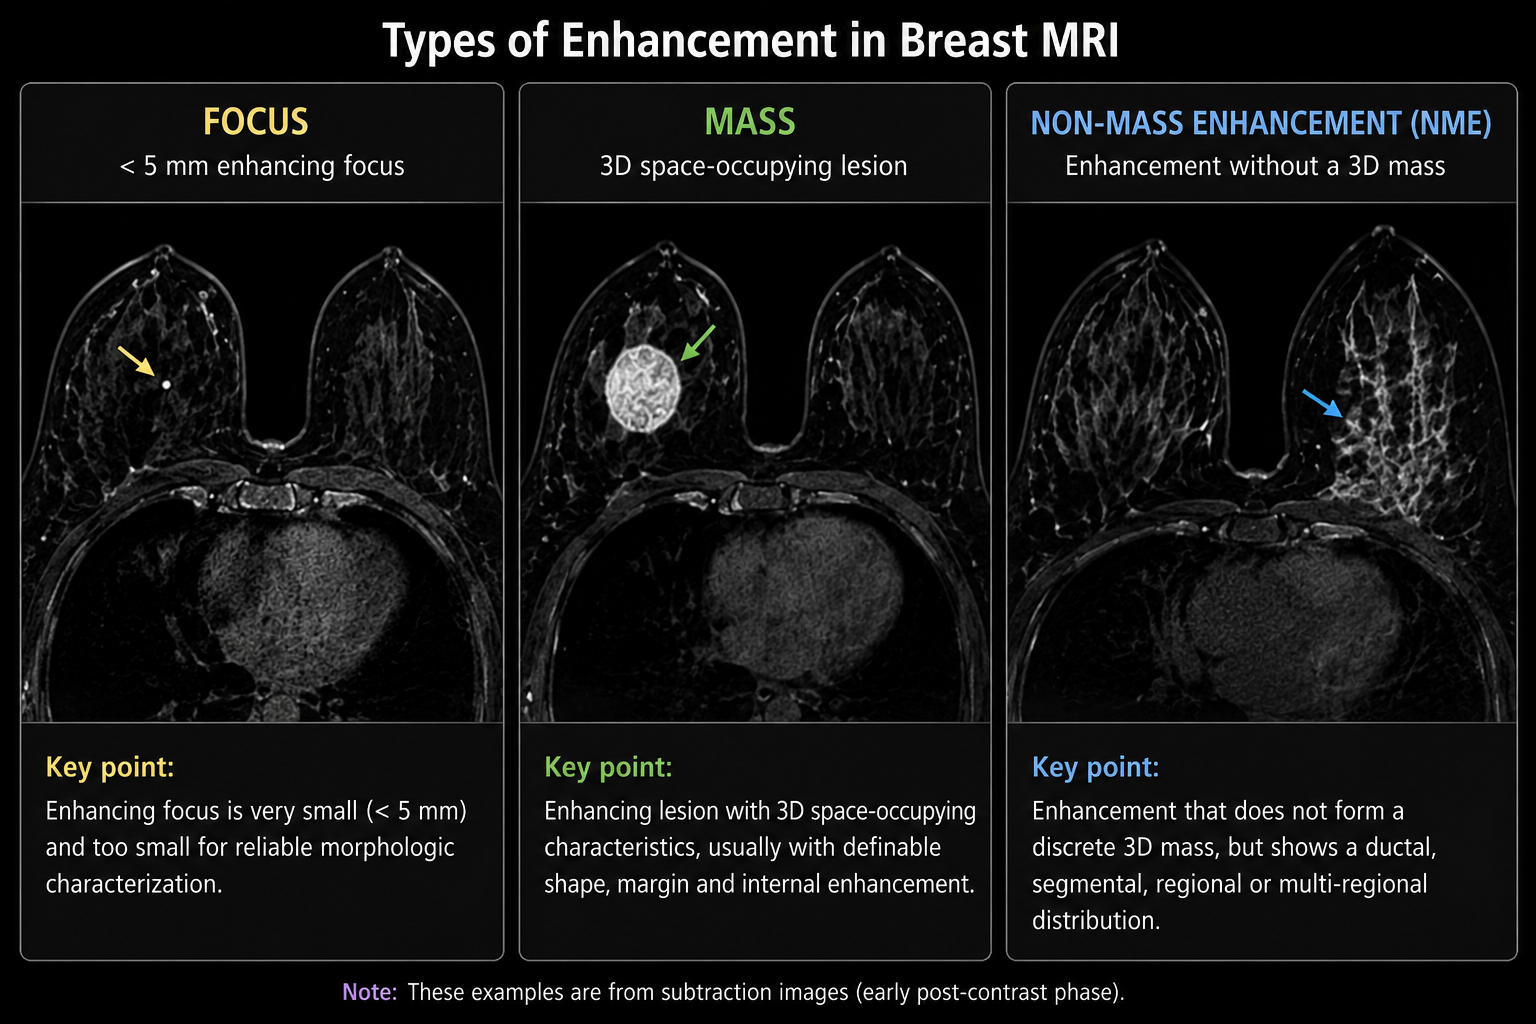
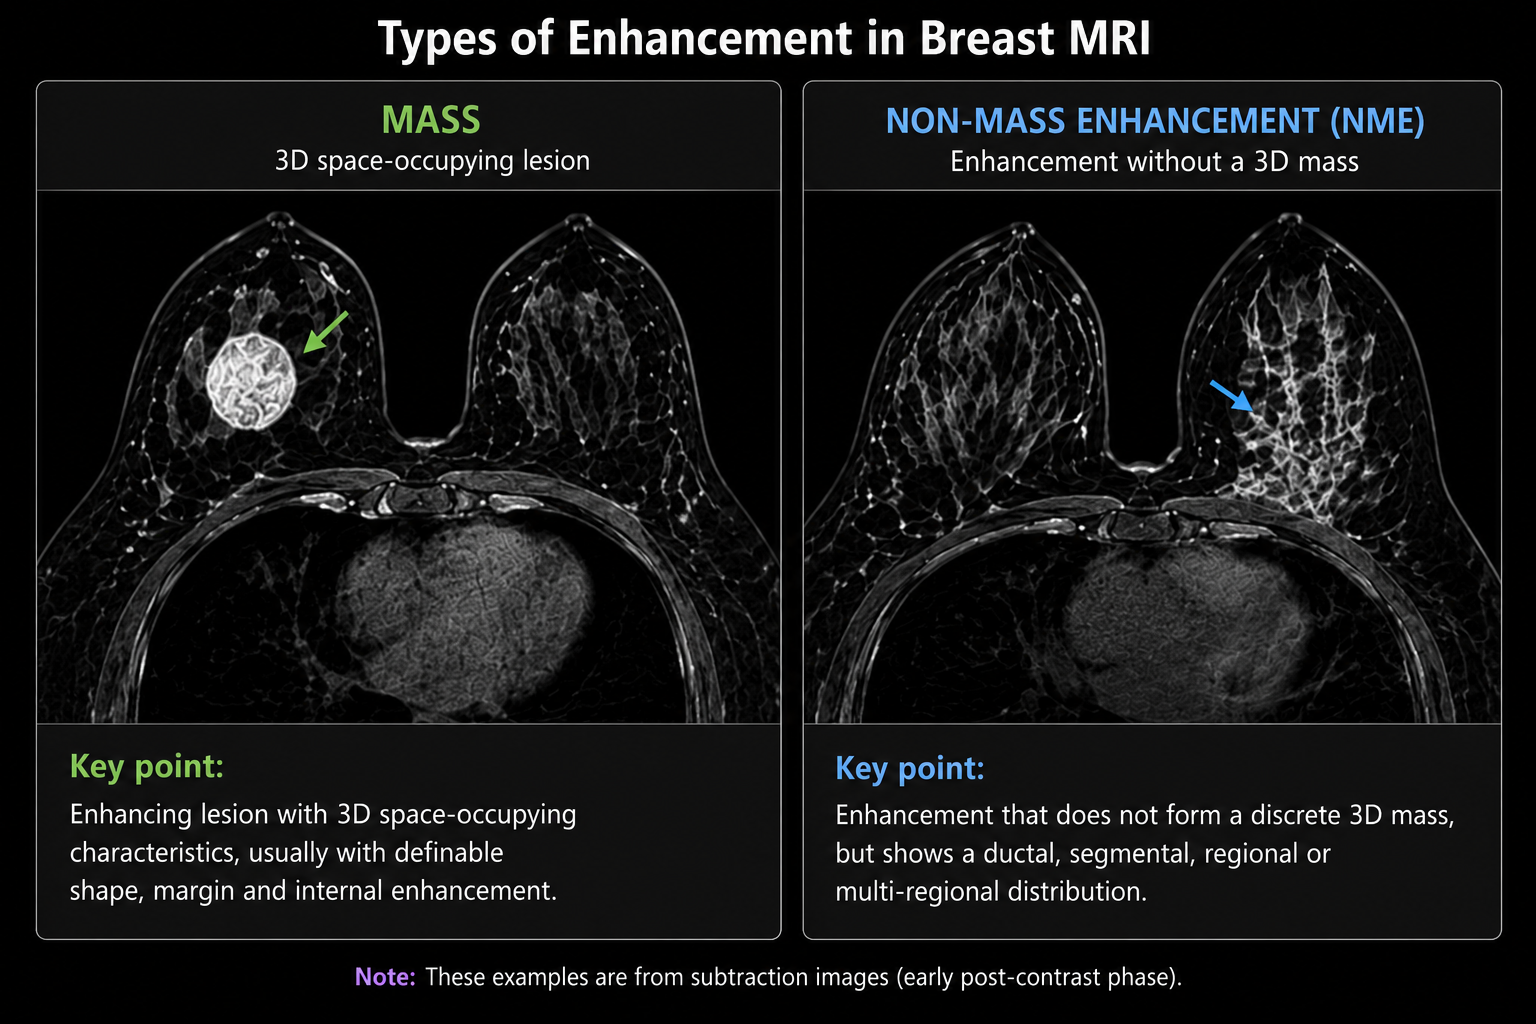
Make lesson sections exclusive accordions and update MRI enhancement image

Changed region(s): [[0.0, 0.0, 1.0, 1.0], [0.9688, 0.7812, 1.0, 0.9062], [0.9688, 0.1875, 1.0, 0.2812]]

diff --git a/app/mamma/bildgebung/mammographie/verkalkungen/page.js b/app/mamma/bildgebung/mammographie/verkalkungen/page.js
@@ -64,7 +64,7 @@ const CALC_FACTORS=[
   {key:'associated',group:'Begleitbefunde',title:'Masse oder Architekturstörung?',text:'Assoziierte Gewebeveränderungen können den Verdacht verstärken. Auch Asymmetrie sowie Haut- und Mamillenveränderungen mitbeurteilen.'},
   {key:'history',group:'Risikokontext',title:'Alter und Anamnese einbeziehen',text:'Höheres Alter und eine persönliche Brustkrebsanamnese können das Ausgangsrisiko erhöhen. Entscheidend bleibt der Gesamtbefund.'},
 ]
-function Section({id,title,children}){const mobile=useMobileLearningLayout();const[open,setOpen]=useState(true);useEffect(()=>setOpen(!mobile),[mobile,id]);return <section id={id} className={`${base.section} ${basics.section} ${styles.section}`}><button type="button" className={`${base.sectionHeader} ${basics.sectionHeader}`} onClick={()=>setOpen(v=>!v)} aria-expanded={open}><span className={basics.sectionHeading}><h2>{title}</h2></span><span className={basics.sectionToggle}>{open?'−':'+'}</span></button>{open&&<div className={`${base.sectionBody} ${basics.sectionBody} ${styles.sectionBody}`}>{children}</div>}</section>}
+function Section({id,title,children}){useMobileLearningLayout();const[open,setOpen]=useState(true);useEffect(()=>setOpen(false),[id]);return <section id={id} className={`${base.section} ${basics.section} ${styles.section}`}><button type="button" className={`${base.sectionHeader} ${basics.sectionHeader}`} onClick={()=>setOpen(v=>!v)} aria-expanded={open}><span className={basics.sectionHeading}><h2>{title}</h2></span><span className={basics.sectionToggle}>{open?'−':'+'}</span></button>{open&&<div className={`${base.sectionBody} ${basics.sectionBody} ${styles.sectionBody}`}>{children}</div>}</section>}
 function ReadButton({lang,isRead,toggle,authError}){const t=READ[lang]||READ.de;return <div className={base.readControl}><button type="button" className={`${base.readButton} ${basics.readButton} ${isRead?`${base.readButtonActive} ${basics.readButtonActive}`:''}`} onClick={toggle}><span className={`${base.readCheck} ${basics.readCheck}`}>{isRead?'✓':''}</span><span>{isRead?t[1]:t[0]}</span></button>{authError&&<div className={base.readError}><span>{t[2]}</span><Link href="/sign-in">{t[3]}</Link></div>}</div>}
 function MorphologyImage({type,lang='de'}){const image=MORPHOLOGY_IMAGES[type];return <a className={caseStyles.morphologyIllustration} href={image.src} target="_blank" rel="noreferrer" aria-label={pick(image.alt,lang)}><Image src={image.src} alt={pick(image.alt,lang)} width={image.width} height={image.height}/></a>}
 function DistributionImage({type,lang='de'}){const image=DISTRIBUTION_IMAGES[type];return <a className={caseStyles.distributionIllustration} href={image.src} target="_blank" rel="noreferrer" aria-label={pick(image.alt,lang)}><Image src={image.src} alt={pick(image.alt,lang)} width={image.width} height={image.height}/></a>}

diff --git a/hooks/useMobileLearningLayout.js b/hooks/useMobileLearningLayout.js
@@ -2,10 +2,61 @@
 
 import { useEffect, useState } from 'react'
 
+function installLearningAccordion() {
+  if (window.__radYarLearningAccordionInstalled) return
+  window.__radYarLearningAccordionInstalled = true
+
+  let preferredId = null
+  let initialized = false
+  let scheduled = false
+  const sectionHeaders = () => [...document.querySelectorAll('main section[id] > button[aria-expanded]')]
+  const reconcile = () => {
+    scheduled = false
+    const headers = sectionHeaders()
+    if (!headers.length) return
+    if (!initialized) {
+      initialized = true
+      preferredId = headers[0].parentElement?.id || null
+    }
+    const expanded = headers.filter(button => button.getAttribute('aria-expanded') === 'true')
+    let target = preferredId ? headers.find(button => button.parentElement?.id === preferredId) : expanded[0]
+    if (preferredId && target?.getAttribute('aria-expanded') !== 'true') target.click()
+    if (!target && expanded.length) target = expanded[0]
+    expanded.forEach(button => { if (button !== target) button.click() })
+  }
+  const schedule = () => {
+    if (scheduled) return
+    scheduled = true
+    window.setTimeout(reconcile, 0)
+  }
+
+  document.addEventListener('click', event => {
+    const header = event.target.closest?.('main section[id] > button[aria-expanded]')
+    if (header) {
+      if (event.isTrusted) preferredId = header.getAttribute('aria-expanded') === 'true' ? null : header.parentElement?.id
+      schedule()
+      return
+    }
+    const sidebarButton = event.target.closest?.('main aside button')
+    if (!sidebarButton) return
+    const sidebarButtons = [...sidebarButton.closest('aside').querySelectorAll('button')]
+    const sections = [...document.querySelectorAll('main section[id]')]
+    const target = sections[sidebarButtons.indexOf(sidebarButton)]
+    if (target) {
+      preferredId = target.id
+      schedule()
+    }
+  }, true)
+
+  new MutationObserver(schedule).observe(document.body, { childList: true, subtree: true, attributes: true, attributeFilter: ['aria-expanded'] })
+  schedule()
+}
+
 export function useMobileLearningLayout(query = '(max-width: 760px)') {
   const [isMobile, setIsMobile] = useState(false)
 
   useEffect(() => {
+    installLearningAccordion()
     const mediaQuery = window.matchMedia(query)
     const update = () => setIsMobile(mediaQuery.matches)
     update()

diff --git a/app/msk/trauma/frakturbeschreibung/page.js b/app/msk/trauma/frakturbeschreibung/page.js
@@ -16,7 +16,7 @@ const UI={
  en:{zoom:'Enlarge image',close:'Close image preview',mark:'Mark as read',read:'Marked as read',signIn:'Sign in',auth:'Please sign in to save your learning progress.',mcq:'MCQ',flash:'Flashcards'},
  fa:{zoom:'بزرگنمایی تصویر',close:'بستن تصویر',mark:'علامتگذاری بهعنوان خواندهشده',read:'بهعنوان خواندهشده علامت خورد',signIn:'ورود',auth:'برای ذخیره پیشرفت لطفاً وارد شوید.',mcq:'MCQ',flash:'فلشکارت'}
 }
-function Section({id,title,lead,children}){const mobile=useMobileLearningLayout();const[open,setOpen]=useState(true);useEffect(()=>setOpen(!mobile),[mobile,id]);return <section id={id} className={styles.section}><button type="button" className={styles.sectionHeader} onClick={()=>setOpen(v=>!v)} aria-expanded={open}><h2>{title}</h2><span>{open?'−':'+'}</span></button>{open&&<div className={styles.sectionBody}>{lead&&<p className={styles.lead}>{lead}</p>}{children}</div>}</section>}
+function Section({id,title,lead,children}){useMobileLearningLayout();const[open,setOpen]=useState(true);useEffect(()=>setOpen(false),[id]);return <section id={id} className={styles.section}><button type="button" className={styles.sectionHeader} onClick={()=>setOpen(v=>!v)} aria-expanded={open}><h2>{title}</h2><span>{open?'−':'+'}</span></button>{open&&<div className={styles.sectionBody}>{lead&&<p className={styles.lead}>{lead}</p>}{children}</div>}</section>}
 function Table({headers,rows}){return <div className={styles.tableWrap}><table className={styles.table}><thead><tr>{headers.map((h,i)=><th key={i}>{h}</th>)}</tr></thead><tbody>{rows.map((r,i)=><tr key={i}>{r.map((c,j)=><td key={j}>{c}</td>)}</tr>)}</tbody></table></div>}
 function Cards({items,lang}){return <div className={styles.cardsGrid}>{items.map(item=><div className={styles.infoCard} key={L(item.title,lang)}><span className={styles.cardIcon}>{item.icon}</span><h3>{L(item.title,lang)}</h3><p>{L(item.text,lang)}</p></div>)}</div>}
 function Callout({label,cave=false,children}){return <div className={`${styles.callout} ${cave?styles.cave:''}`}><strong>{cave?'⚠':'💡'} {label}</strong><p>{children}</p></div>}

diff --git a/app/mamma/bildgebung/mrt/laesionscharakterisierung/page.js b/app/mamma/bildgebung/mrt/laesionscharakterisierung/page.js
@@ -25,7 +25,7 @@ function ReadButton({ isRead, onClick, authError, lang }) {
 function Section({ id, eyebrow, title, children }) {
   const isMobile = useMobileLearningLayout()
   const [open, setOpen] = useState(true)
-  useEffect(() => setOpen(!isMobile), [isMobile, id])
+  useEffect(() => setOpen(false), [id])
   return <section id={id} className={`${base.section} ${basics.section} ${styles.section}`}><button className={`${base.sectionHeader} ${basics.sectionHeader}`} type="button" onClick={() => setOpen(value => !value)} aria-expanded={open}><span className={basics.sectionHeading}><small>{eyebrow}</small><h2>{title}</h2></span><span className={basics.sectionToggle}>{open ? '−' : '+'}</span></button>{open && <div className={`${base.sectionBody} ${basics.sectionBody} ${styles.sectionBody}`}>{children}</div>}</section>
 }
 

diff --git a/app/mamma/bildgebung/mammographie/grundlagen/page.js b/app/mamma/bildgebung/mammographie/grundlagen/page.js
@@ -26,7 +26,7 @@ function ReadButton({ isRead, onClick, authError, lang }) {
 function Section({ id, number, title, children }) {
   const mobile = useMobileLearningLayout()
   const [open, setOpen] = useState(true)
-  useEffect(() => setOpen(!mobile), [mobile, id])
+  useEffect(() => setOpen(false), [id])
   return <section id={id} className={`${base.section} ${shared.section} ${styles.section}`}><button className={`${base.sectionHeader} ${shared.sectionHeader}`} type="button" onClick={() => setOpen(value => !value)} aria-expanded={open}><span className={shared.sectionHeading}><small>{number}</small><h2>{title}</h2></span><span className={shared.sectionToggle}>{open ? '−' : '+'}</span></button>{open && <div className={`${base.sectionBody} ${shared.sectionBody} ${styles.sectionBody}`}>{children}</div>}</section>
 }
 

diff --git a/app/gehirn/vaskulaer/sinusvenenthrombose/page.js b/app/gehirn/vaskulaer/sinusvenenthrombose/page.js
@@ -20,7 +20,7 @@ const UI = {
 function Section({ id, title, lead, children }) {
   const mobile = useMobileLearningLayout()
   const [open, setOpen] = useState(true)
-  useEffect(() => setOpen(!mobile), [mobile, id])
+  useEffect(() => setOpen(false), [id])
   return <section id={id} className={styles.section}><button type="button" className={styles.sectionHeader} onClick={() => setOpen(v => !v)} aria-expanded={open}><h2>{title}</h2><span>{open ? '−' : '+'}</span></button>{open && <div className={styles.sectionBody}>{lead && <p className={styles.lead}>{lead}</p>}{children}</div>}</section>
 }
 function Table({ headers, rows }) {

diff --git a/app/gehirn/vaskulaer/gefaessdissektion/page.js b/app/gehirn/vaskulaer/gefaessdissektion/page.js
@@ -25,7 +25,7 @@ const UI = {
 function Section({ id, title, lead, children }) {
   const mobile = useMobileLearningLayout()
   const [open, setOpen] = useState(true)
-  useEffect(() => setOpen(!mobile), [mobile, id])
+  useEffect(() => setOpen(false), [id])
   return <section id={id} className={styles.section}>
     <button type="button" className={styles.sectionHeader} onClick={() => setOpen(value => !value)} aria-expanded={open}><h2>{title}</h2><span>{open ? '−' : '+'}</span></button>
     {open && <div className={styles.sectionBody}>{lead && <p className={styles.lead}>{lead}</p>}{children}</div>}

diff --git a/app/msk/trauma/distale-radiusfraktur/page.js b/app/msk/trauma/distale-radiusfraktur/page.js
@@ -19,7 +19,7 @@ const UI = {
 function Section({ id, title, lead, children }) {
   const mobile = useMobileLearningLayout()
   const [open, setOpen] = useState(true)
-  useEffect(() => setOpen(!mobile), [mobile, id])
+  useEffect(() => setOpen(false), [id])
   return <section id={id} className={styles.section}>
     <button type="button" className={styles.sectionHeader} onClick={() => setOpen(value => !value)} aria-expanded={open}><h2>{title}</h2><span>{open ? '−' : '+'}</span></button>
     {open && <div className={styles.sectionBody}>{lead && <p className={styles.lead}>{lead}</p>}{children}</div>}

diff --git a/app/gehirn/vaskulaer/kapillaere-teleangiektasie/page.js b/app/gehirn/vaskulaer/kapillaere-teleangiektasie/page.js
@@ -20,7 +20,7 @@ const UI = {
 function Section({ id, title, lead, children }) {
   const mobile = useMobileLearningLayout()
   const [open, setOpen] = useState(true)
-  useEffect(() => setOpen(!mobile), [mobile, id])
+  useEffect(() => setOpen(false), [id])
   return <section id={id} className={styles.section}>
     <button type="button" className={styles.sectionHeader} onClick={() => setOpen(v => !v)} aria-expanded={open}><h2>{title}</h2><span>{open ? '−' : '+'}</span></button>
     {open && <div className={styles.sectionBody}>{lead && <p className={styles.lead}>{lead}</p>}{children}</div>}

diff --git a/app/abdomen/leber/hcc/page.js b/app/abdomen/leber/hcc/page.js
@@ -319,7 +319,7 @@ function Callout({ type = 'note', label, children }) {
 function Section({ id, title, lead, children }) {
   const isMobile = useMobileLearningLayout()
   const [open, setOpen] = useState(true)
-  useEffect(() => setOpen(!isMobile), [isMobile, id])
+  useEffect(() => setOpen(false), [id])
   return (
     <section id={id} className={styles.section}>
       <button className={styles.sectionHeader} type="button" onClick={() => setOpen(value => !value)} aria-expanded={open}><h2>{title}</h2><span>{open ? '−' : '+'}</span></button>

diff --git a/app/mamma/bildgebung/mrt/basics/page.js b/app/mamma/bildgebung/mrt/basics/page.js
@@ -34,7 +34,7 @@ function ReadButton({ isRead, onClick, authError }) {
 function Section({ id, title, eyebrow, children }) {
   const isMobile = useMobileLearningLayout()
   const [open, setOpen] = useState(true)
-  useEffect(() => setOpen(!isMobile), [isMobile, id])
+  useEffect(() => setOpen(false), [id])
   return (
     <section id={id} className={`${base.section} ${styles.section}`}>
       <button className={`${base.sectionHeader} ${styles.sectionHeader}`} type="button" onClick={() => setOpen(value => !value)} aria-expanded={open}>

diff --git a/app/gehirn/trauma/epidurale-blutung/page.js b/app/gehirn/trauma/epidurale-blutung/page.js
@@ -73,7 +73,7 @@ function Callout({ type = 'note', label, children }) {
 function Section({ id, title, lead, titleClassName = '', children }) {
   const isMobile = useMobileLearningLayout()
   const [open, setOpen] = useState(true)
-  useEffect(() => setOpen(!isMobile), [isMobile, id])
+  useEffect(() => setOpen(false), [id])
   return (
     <section id={id} className={shared.section}>
       <button className={shared.sectionHeader} type="button" onClick={() => setOpen(value => !value)} aria-expanded={open}>
